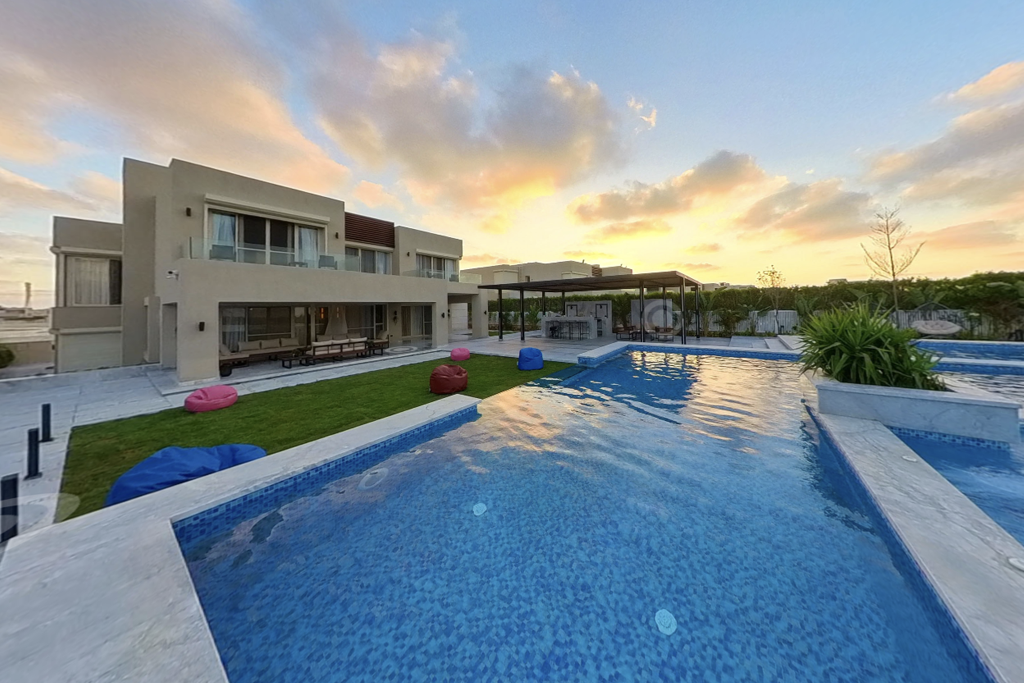
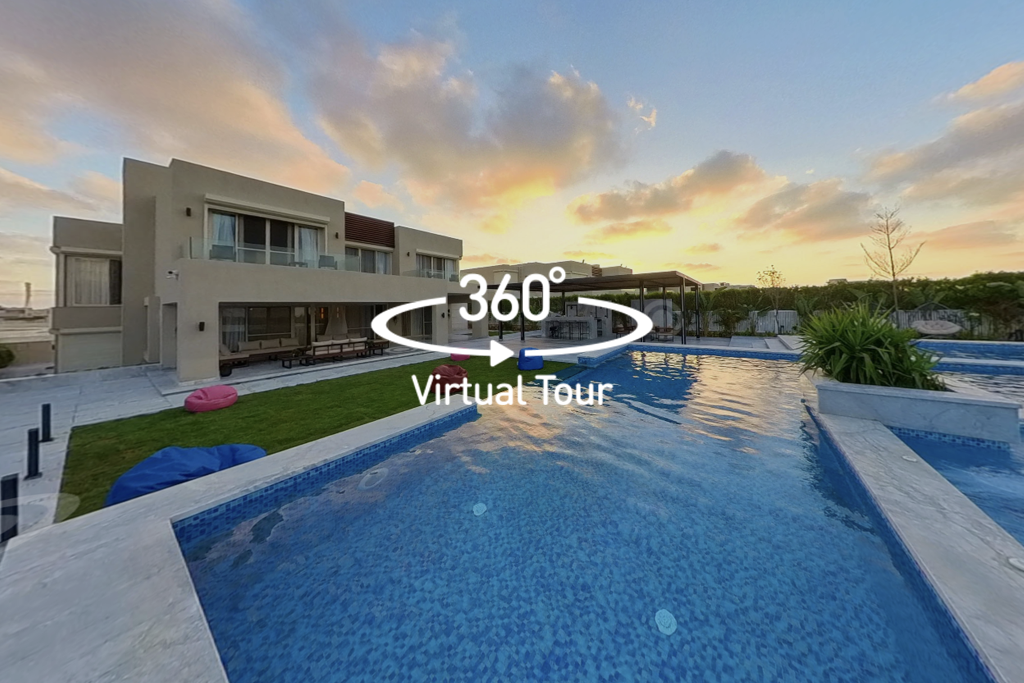
go

Changed region(s): [[0.25, 0.1537, 1.0, 0.6149], [0.6875, 0.5227, 0.7188, 0.5842], [0.9688, 0.0922, 1.0, 0.123]]

diff --git a/portfolio/index.html b/portfolio/index.html
@@ -167,11 +167,11 @@
                   </div>
                 </div>
                 <div class="portfolio-info">
-                  <h4>Investment Strategy</h4>
-                  <p>Financial Advisory</p>
+                  <h4>NJS Campus Tour</h4>
+                  <p>Virtual Tour</p>
                   <div class="portfolio-tags">
-                    <span>Graphic Design</span>
-                    <span>Investment</span>
+                    <span>360° Photography</span>
+                    <span>Virtual Tours</span>
                   </div>
                 </div>
               </div>
